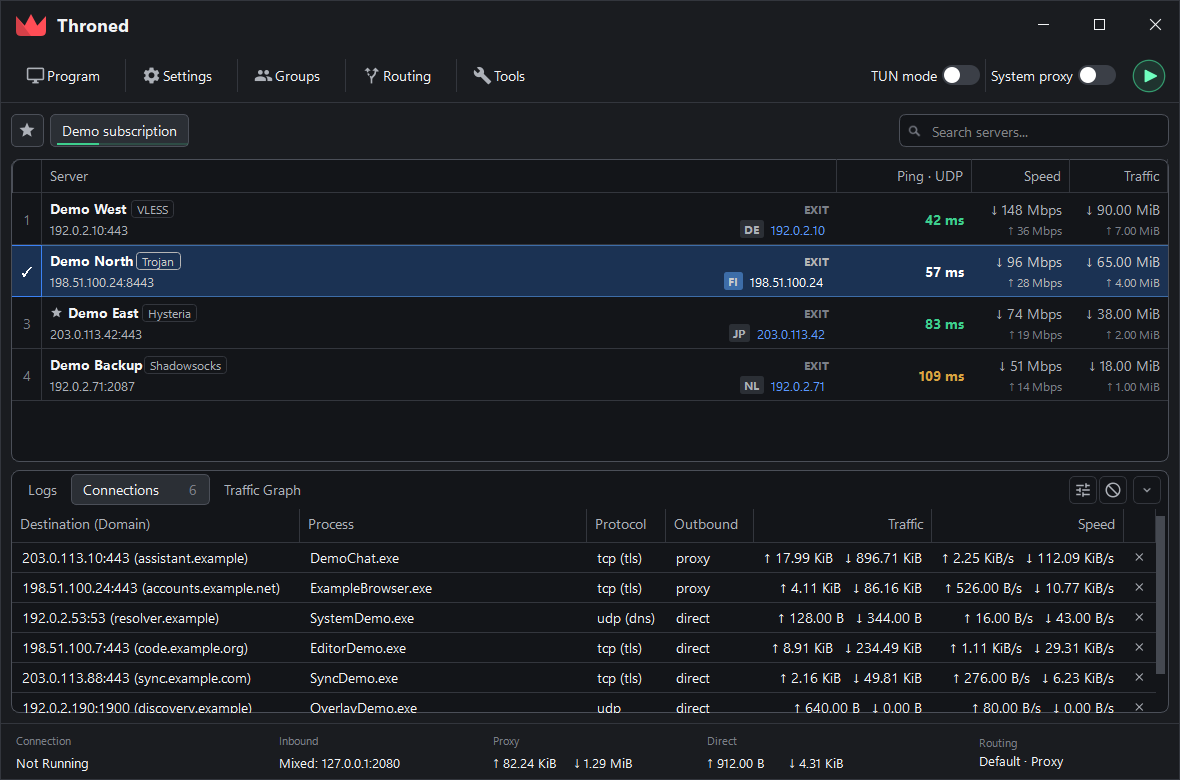
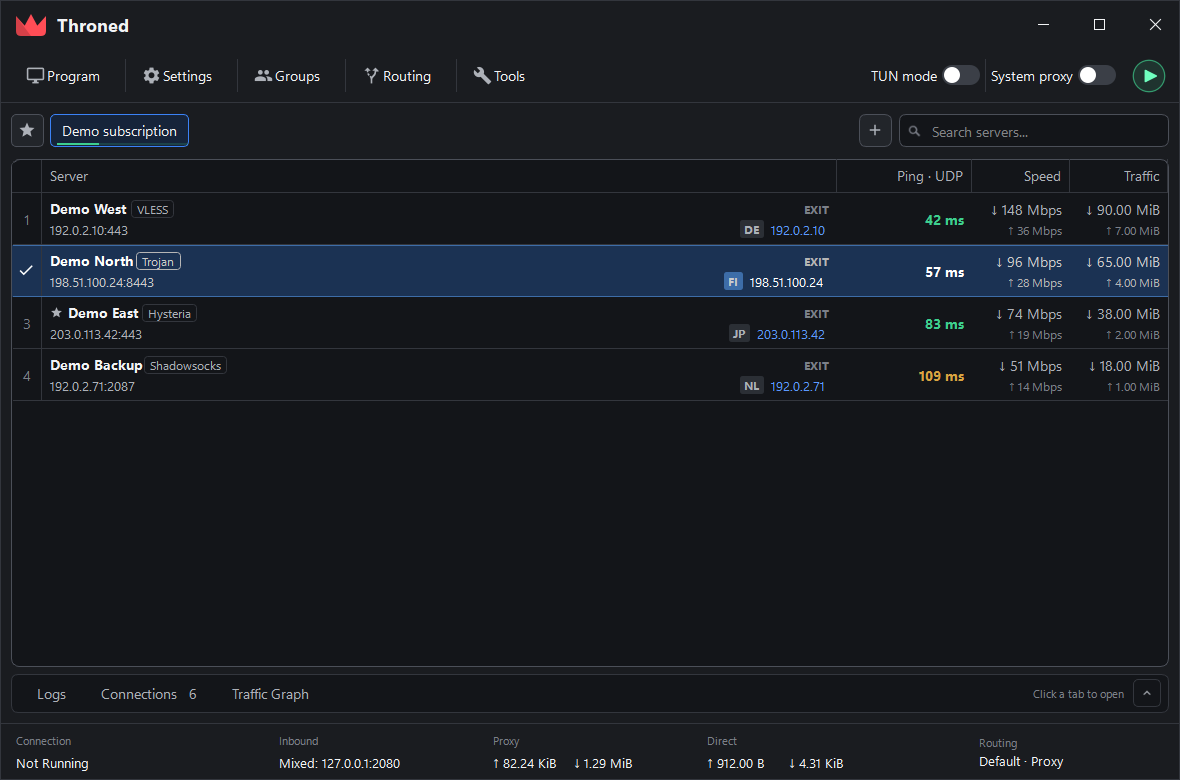
docs: refresh feature overview and main preview

diff --git a/README.md b/README.md
@@ -46,16 +46,22 @@ Everything Throne does, plus:
 - UDP latency and jitter probe, with its own column.
 - Ping monitor on the graph: up to three targets, direct path measured beside the proxy.
 - URL test, speed test and IP resolution over a multi-row selection.
+- Search, sort and close live connections; filters and ordering survive restarts.
+- Themed proxy/direct throughput graph in the collapsible activity panel.
 
 **Interface**
-- Frameless native window, five themes.
+- Redesigned two-line server list with exit endpoint, live metrics and configurable columns.
+- Favourites across every group, plus optional search across every group.
+- Quick Add accepts subscription and profile links or opens manual group/profile creation.
+- Frameless native window, five core palettes and self-contained custom skins.
 - Log filtered by level, on a hanging timestamp gutter.
 - Subscription usage and expiry on the group tab.
 - Status strip that no longer reflows as numbers change.
 
 **Operating it**
 - **Copy Diagnostics** — one paste for a bug report, secrets masked.
-- Update check announced in the tray; nothing installs itself.
+- Update checks and downloads follow the running profile, with in-window progress and explicit restart-to-install.
+- Release notes follow the interface language when the release provides a translation.
 - Control CLI over a local socket.
 
 <details>
@@ -214,11 +220,11 @@ problem.
 
 | Component | Version |
 | --- | --- |
-| sing-box | v1.13.20 (throneproj fork) |
+| sing-box | v1.14.0-rc.5 (throneproj fork) |
 | Xray-core | throneproj fork |
-| sing-tun | v0.9.0-beta.2 |
-| Qt | 6.11.1 |
-| Go | 1.26.5 |
+| sing-tun | v0.9.0-beta.4 |
+| Qt | 6.11.1–6.11.2 (target-dependent) |
+| Go | 1.26.7 |
 
 Exact build stamps are printed in the log at startup. Protocols come from
 sing-box and Xray: VLESS, VMess, Trojan, Shadowsocks, SOCKS, HTTP(S), TUIC,

diff --git a/docs/ui-redesign.md b/docs/ui-redesign.md
@@ -105,14 +105,15 @@ throned --route-editor-preview [--advanced] [--detail] [--paste] \
         [-lang ru] [-theme graphite] --output routes.png
 
 # main window on an isolated configuration, with sample connections
-throned -lang en -theme graphite -ui-preview <prefix>
+throned -lang en -theme midnight -ui-preview-docs -ui-preview <prefix>
 ```
 
-`-ui-preview` writes `<prefix>-window.png`, `<prefix>-menu.png`,
-`<prefix>-menu-in-place.png` and `<prefix>-submenu.png`. It always runs against
-an automatically created temporary database containing only reserved example
-domains and RFC 5737 documentation addresses; persisted profiles and
-subscriptions are never opened or copied.
+`-ui-preview` writes the collapsed main window plus focused captures for the
+activity-panel animation, search, logs, connections, graph, menus, start/stop
+states and updater progress. `-ui-preview-docs` hides the local development
+build stamp. The preview always runs against an automatically created temporary
+database containing only reserved example domains and RFC 5737 documentation
+addresses; persisted profiles and subscriptions are never opened or copied.
 
 `-lang` and `-theme` also work on a normal launch and override the stored
 choices for that run only.
